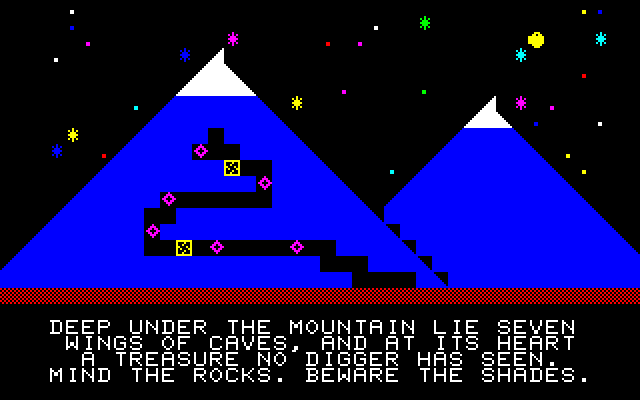
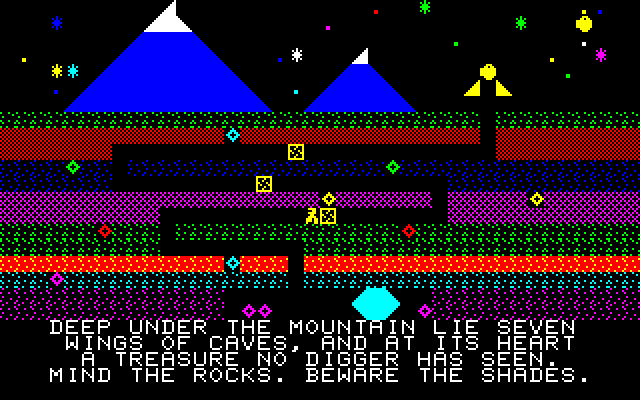
Undermined: the digger gathers his gems, the legend goes down the mine
The title digger now turns round at the far end and walks back gathering
the gems he brought down, as the rocks from the roof fall in behind him.
The Legend is redrawn as a cross-section under the mountain: the seven
wings as seven strata in their own rock, a pithead, and a mine the miner
walks down, wing by wing, to the glittering heart. The walker carries
its facing per step. Showcase stills, GIF, README and blurb refreshed.

diff --git a/BOULDER/tools/pictures.py b/BOULDER/tools/pictures.py
@@ -1,7 +1,7 @@
 """pictures.py - the full-screen pictures of UNDERMINED's attract mode and
 ending, drawn in ROM characters, plus the lists of cells the Z80 animates.
 
-    story()     "The Legend": the mountain by night, its caves lit inside
+    story()     "The Legend": the seven wings in cross-section, down to the heart
     daybreak()  the ending: out of the mountain, the sun coming up
 
 Each returns (cells, anim): cells is 1000 (char, attr) pairs for the
@@ -37,6 +37,7 @@ class Pic:
         if 0 <= x < W and 0 <= y < H:
             self.ch[y * W + x] = g & 0xFF
             self.at[y * W + x] = ((g >> 8) << 7) | at(fg, bg)
+        return self
 
     def get(self, x, y):
         return self.ch[y * W + x]
@@ -68,40 +69,83 @@ def mountain(p, cx, top, base, fg, snow=3, bg=BLACK):
 
 
 def story():
+    """the legend in cross-section: the mountain on the skyline, and under it
+    the seven wings as seven strata, a mine zig-zagging down to the heart"""
+    import caves
     p = Pic()
     rnd = random.Random(7)
-    anim = {'stars': [], 'gems': [], 'lamps': []}
+    anim = {'stars': [], 'gems': [], 'lamps': [], 'heart': []}
     # the night sky
-    for _ in range(34):
-        x, y = rnd.randrange(W), rnd.randrange(0, 11)
+    for _ in range(26):
+        x, y = rnd.randrange(W), rnd.randrange(0, 6)
         p.put(x, y, STAR if rnd.random() < 0.3 else DOT, rnd.choice((WHITE, WHITE, CYAN, YELLOW)))
         anim['stars'].append(y * W + x)
-    p.put(33, 2, ROCK, YELLOW)                                      # the moon
-    # two peaks; the big one holds the caves
-    mountain(p, 30, 6, 17, BLUE, snow=2)
-    inner = mountain(p, 13, 3, 17, BLUE, snow=3)
-    # tunnels inside the big peak, with gems and a lantern or two
-    tunnel = [(13, 8), (12, 9), (13, 9), (14, 9), (14, 10), (15, 10), (16, 10), (16, 11), (16, 12),
-              (15, 12), (14, 12), (13, 12), (12, 12), (11, 12), (10, 12), (9, 13), (10, 13), (9, 14),
-              (9, 15), (10, 15), (11, 15), (12, 15), (13, 15), (14, 15), (15, 15), (16, 15), (17, 15),
-              (18, 15), (19, 15), (20, 15), (21, 16), (20, 16), (22, 16), (23, 17), (22, 17)]
-    for x, y in tunnel:
-        p.put(x, y, 0, WHITE)
-    for x, y in ((12, 9), (16, 11), (10, 12), (9, 14), (13, 15), (18, 15)):
-        p.put(x, y, GEM, CYAN)
-        anim['gems'].append(y * W + x)
-    for x, y in ((14, 10), (11, 15)):
+    p.put(36, 1, ROCK, YELLOW)                                      # the moon
+    mountain(p, 10, 0, 6, BLUE, snow=2)
+    mountain(p, 22, 3, 6, BLUE, snow=1)
+    anim['stars'] = [o for o in anim['stars'] if p.ch[o] in (STAR, DOT)]
+    # the pithead: a winding wheel on its frame over the shaft
+    p.put(30, 4, ROCK, YELLOW)
+    p.put(29, 5, UR, YELLOW).put(31, 5, UL, YELLOW)
+    # the turf, then the seven wings' rock, one stratum each, deeper and deeper
+    for x in range(W):
+        p.put(x, 7, 0x1EE, GREEN)
+    bands = (2, 2, 2, 2, 1, 1, 2)
+    y = 8
+    rows = {}
+    for w, h in enumerate(bands):
+        g, a = caves.THEMES[w]['dirt']
+        for yy in range(y, y + h):
+            rows[yy] = w
+            for x in range(W):
+                p.ch[yy * W + x] = g
+                p.at[yy * W + x] = a
+        y += h
+    # the mine: down the shaft, then back and forth, wing by wing
+    path = []                                   # (x, y, face) - 0 left, 1 down, 2 right
+
+    def run(x0, x1, y, face=None):
+        st = 1 if x1 >= x0 else -1
+        for x in range(x0, x1 + st, st):
+            path.append((x, y, face if face is not None else (2 if st > 0 else 0)))
+
+    def down(x, y0, y1):
+        for y in range(y0, y1 + 1):
+            path.append((x, y, 1))
+
+    run(39, 31, 6)
+    down(30, 6, 9)
+    run(29, 7, 9)
+    down(7, 10, 11)
+    run(8, 27, 11)
+    down(27, 12, 13)
+    run(26, 10, 13)
+    down(10, 14, 15)
+    run(11, 18, 15)
+    down(18, 16, 19)
+    run(19, 20, 19)
+    for x, y, f in path:
+        if y >= 7:
+            p.put(x, y, 0, WHITE)
+    # the heart: a great gem in its own chamber at the bottom
+    for x in range(14, 27):
+        p.put(x, 18, 0, WHITE).put(x, 19, 0, WHITE)
+    for dx, g in enumerate((UR, FULL, UL)):
+        p.put(22 + dx, 18, g, CYAN)
+    for dx, g in enumerate((DR, FULL, DL)):
+        p.put(22 + dx, 19, g, CYAN)
+    anim['heart'] = [o for y in (18, 19) for o in range(y * W + 22, y * W + 25)]
+    for x in (15, 16, 26):
+        p.put(x, 19, GEM, CYAN)
+        anim['gems'].append(19 * W + x)
+    # gems in each wing's rock, beside the galleries, in that wing's colours
+    for x, y in ((14, 8), (24, 10), (4, 10), (20, 12), (33, 12), (6, 14), (25, 14), (14, 16), (3, 17)):
+        th = caves.THEMES[rows[y]]
+        p.put(x, y, GEM, th['gem'][1][0])           # (they keep their colour: no glint)
+    for x, y in ((18, 9), (16, 11), (20, 13)):
         p.put(x, y, 0x1B1, YELLOW)                                  # lanterns
         anim['lamps'].append(y * W + x)
-    # only the stars the mountains left showing twinkle
-    anim['stars'] = [o for o in anim['stars'] if p.ch[o] in (STAR, DOT)]
-    # the ground, and the way in
-    for x in range(W):
-        p.put(x, 18, 0xD0, RED)
-    for x in (23, 24, 25):
-        p.put(x, 17, 0, WHITE)
-    # the miner walks home along the ground and into the mountain
-    anim['walk'] = [18 * W + x for x in range(39, 24, -1)] + [17 * W + 25, 17 * W + 24, 17 * W + 23]
+    anim['walk'] = [(y * W + x) | (f << 14) for x, y, f in path]
     return p.cells(), anim
 
 

diff --git a/BOULDER/build.py b/BOULDER/build.py
@@ -229,7 +229,8 @@ def gen_pics():
     total = 0
     for name, fn, tabs in (('TITLE', pictures.title, (('TT_STARS', 'stars'),)),
                            ('STORY', pictures.story, (('ST_STARS', 'stars'), ('ST_GEMS', 'gems'),
-                                                        ('ST_LAMPS', 'lamps'), ('ST_WALK', 'walk'))),
+                                                        ('ST_LAMPS', 'lamps'), ('ST_HEART', 'heart'),
+                                                        ('ST_WALK', 'walk'))),
                            ('DAYBREAK', pictures.daybreak, (('DB_RAYS', 'rays'), ('DB_GEMS', 'gems'),
                                                               ('DB_WALK', 'walk')))):
         cells, anim = fn()

diff --git a/BOULDER/tools/showcase.py b/BOULDER/tools/showcase.py
@@ -181,12 +181,12 @@ def gif():
     frames = []
     g = Game()
     g.run(20)
-    for _ in range(int(8 * 50 / STEP)):           # the title
+    for _ in range(int(10 * 50 / STEP)):          # the title: out, and back for the gems
         g.run(STEP)
         frames.append(frame(g))
     cuts = [len(frames)]
-    g = page_of('story_page', 0)                   # the legend
-    for _ in range(int(7 * 50 / STEP)):
+    g = page_of('story_page', 0)                   # the legend: down the mine
+    for _ in range(int(8 * 50 / STEP)):
         g.run(STEP)
         frames.append(frame(g))
     cuts.append(len(frames))

diff --git a/BOULDER/showcase/BLURB.md b/BOULDER/showcase/BLURB.md
@@ -66,10 +66,12 @@ the mountain at daybreak, then the caves start again, darker and faster.
 
 - **Attract sequence:** "Under the Mountain" title music and the name
   split by the ground: UNDER against a starry sky, MINED dug into the earth
-  below, with a little digger tunnelling underneath and a scroller. Then two tours
-  in turn. "The Legend" shows the mountain by night to a slow hymn: stars
-  twinkle, lanterns flicker in its caves, a miner walks home, and the story
-  types itself out. "The Seven Wings" shows each wing's stone and gems,
+  below, with a little digger tunnelling underneath, who turns round to
+  gather the gems he has brought down, and a scroller. Then two tours
+  in turn. "The Legend" cuts away the land under the mountain to a slow
+  hymn: the seven wings lie one under another, each in its own rock, and a
+  miner goes down the pithead and through every wing to the glittering
+  heart, while the story types itself out. "The Seven Wings" shows each wing's stone and gems,
   animated. Each tour has its guide to what lives in the caves, then the
   Deepest Diggers table and a demo.
 - **Demo:** the computer plays a different cave each time, replaying the
@@ -96,7 +98,7 @@ the mountain at daybreak, then the caves start again, darker and faster.
 |---|---|
 | Machine | Sharp MZ-700, stock: Z80A at 3.5 MHz, 64 KB RAM, PAL |
 | Display | 40 x 25 text, 8 colours, built-in European character ROM only (no PCG, no bitmap mode) |
-| Graphics | One ROM character and colour pair per cell, 94 looks across eight themes (seven wings and the gold bonus chambers); diamonds sparkle, fireflies spin and shades flicker through four-phase tables. Full-screen pictures for the story and the ending, run-length packed into 791 bytes |
+| Graphics | One ROM character and colour pair per cell, 94 looks across eight themes (seven wings and the gold bonus chambers); diamonds sparkle, fireflies spin and shades flicker through four-phase tables. Full-screen pictures for the story and the ending, run-length packed into 719 bytes |
 | View | A 40 x 22 window on caves up to 64 x 32 cells. It stays still until you near an edge, then glides a cell per frame |
 | Screen updates | A shadow copy of the window means only cells whose look changed are written to video RAM |
 | Physics | A top-to-bottom scan of the whole cave, not just the window, every tick: falling, rolling, pushing, explosions, wall-following creatures, amoeba, magic wall, spouts, geodes, slime, locks and hunting shades. A cell holds a 6-bit element and a moved-this-tick flag |
@@ -108,21 +110,21 @@ the mountain at daybreak, then the caves start again, darker and faster.
 | Cave data | 32 caves, Huffman-coded with a code tree per cave: 10,850 bytes (about 350 bytes for a full 64 x 32 cave) |
 | Demo data | Every cave's recorded solution, run-length coded: 7,044 bytes |
 | Media | `UNDERMINED.MZF` for a real machine through a UniCMT or tape; `UNDERMINED.MZT` for emulators (identical) |
-| File | 40,458 bytes; loads at 1200h and starts by itself; nothing more is loaded |
+| File | 41,050 bytes; loads at 1200h and starts by itself; nothing more is loaded |
 | Language | Z80 assembly (sjasmplus); cave design, solver, music and verification in Python |
 
 ### RAM used
 
 | Area | Address | Bytes |
 |---|---|---|
-| Program, caves, themes, music, pictures, demo | 1200h-B009h | 40,458 |
-| Variables and high-score table | B100h-B2B9h | 442 |
+| Program, caves, themes, music, pictures, demo | 1200h-B259h | 41,050 |
+| Variables and high-score table | B300h-B4E2h | 483 |
 | The current cave, unpacked (64 x 32) | B800h-BFFFh | 2,048 |
 | Screen shadow (40 x 22) | C050h-C3BFh | 880 |
 | Stack (top) | below CFF0h | 256 |
-| **Total** | | **about 44,100 (43.1 KB)** |
+| **Total** | | **about 44,700 (43.7 KB)** |
 
-That leaves about 4.4 KB of the MZ-700's 47.5 KB of user RAM (1200h-CFFFh)
+That leaves about 3.8 KB of the MZ-700's 47.5 KB of user RAM (1200h-CFFFh)
 free, in gaps between the areas above. Video and colour RAM (D000h-DFFFh) and the monitor ROM are not
 counted.
 

diff --git a/BOULDER/README.md b/BOULDER/README.md
@@ -140,11 +140,16 @@ simulator and compares the whole cave with the model after every tick.
 
 The title screen has its music and the name split by the ground: UNDER
 stands against a starry night sky, MINED is dug into the earth below, and
-a little digger tunnels along underneath. A scroller runs along the bottom. After it come two tours, in
-turn:
-- **The Legend:** the mountain by night, to a slow hymn. Stars twinkle,
-  lanterns flicker in the caves, a miner walks home into the mountain, and
-  the story types itself out. Then the guide to what lives in the caves.
+a little digger tunnels along underneath: the gems above drop into his
+tunnel behind him and the rocks in the roof drop onto them, so he turns
+round and gathers the gems on the way back as the rocks fall in behind
+him. A scroller runs along the bottom. After it come two tours, in turn:
+- **The Legend:** the land under the mountain in cross-section, to a slow
+  hymn: the seven wings lie one under another, each in its own rock, with
+  the heart of the mountain at the bottom. Stars twinkle over the peaks,
+  lanterns flicker, and a miner walks to the pithead and goes down, back
+  and forth through every wing to the heart, while the story types itself
+  out. Then the guide to what lives in the caves.
 - **The Seven Wings:** each wing's stone and gems, animated, beside its
   name. Then the guide to what waits deeper: geodes, slime, keys, locks and
   shades.
